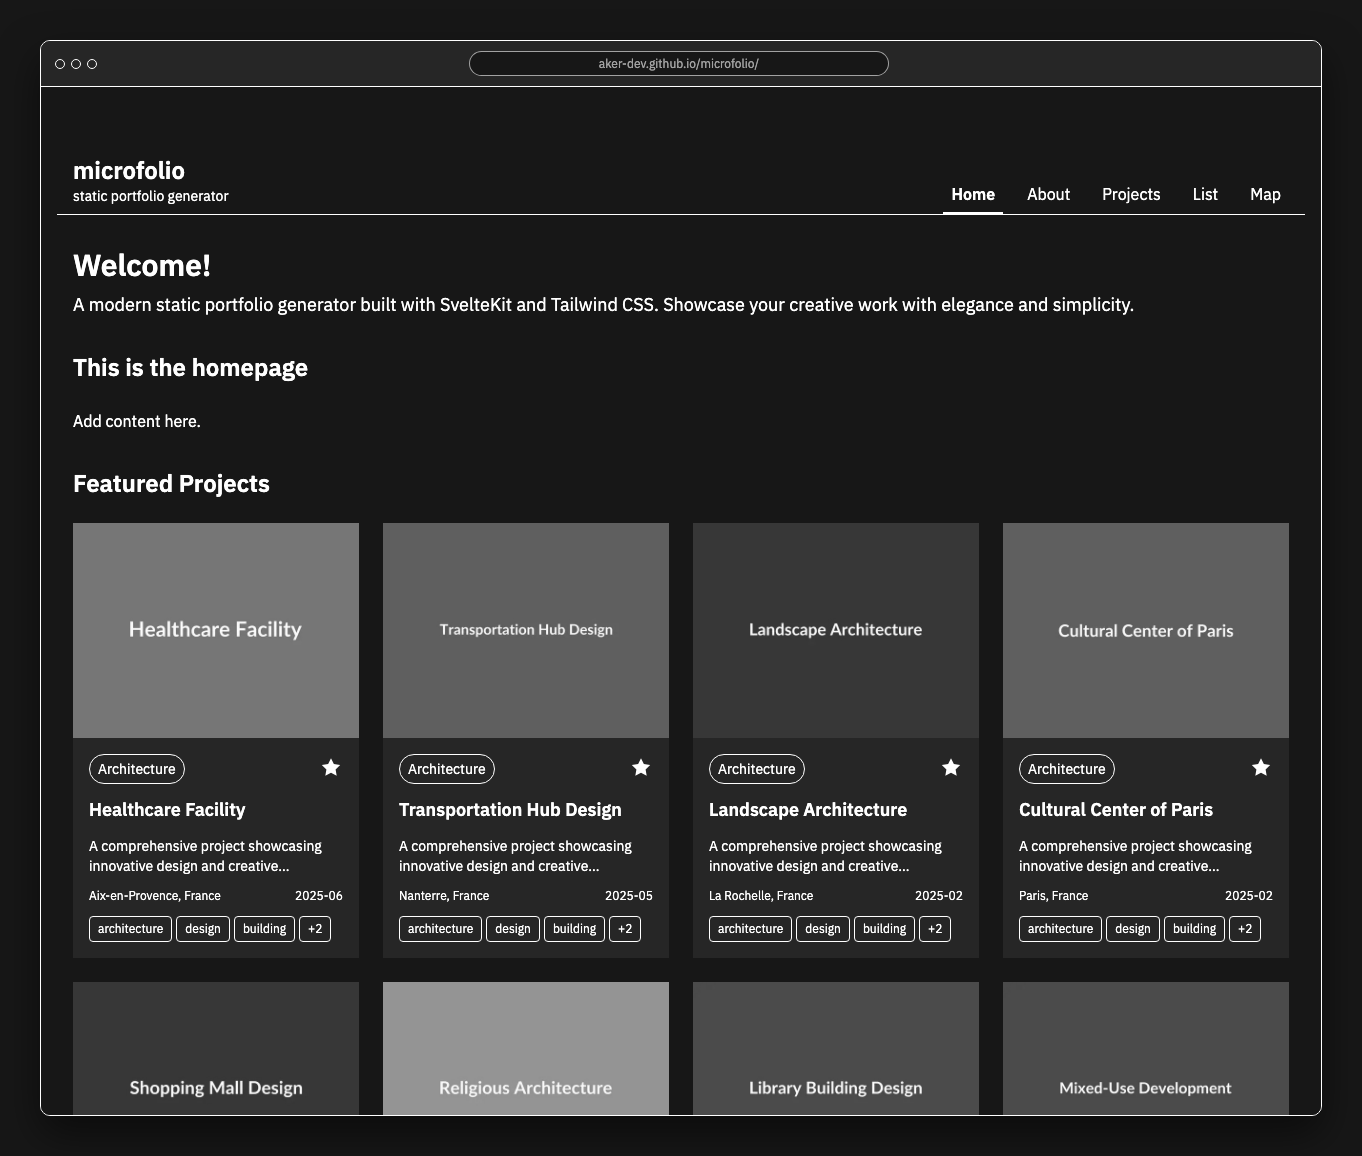
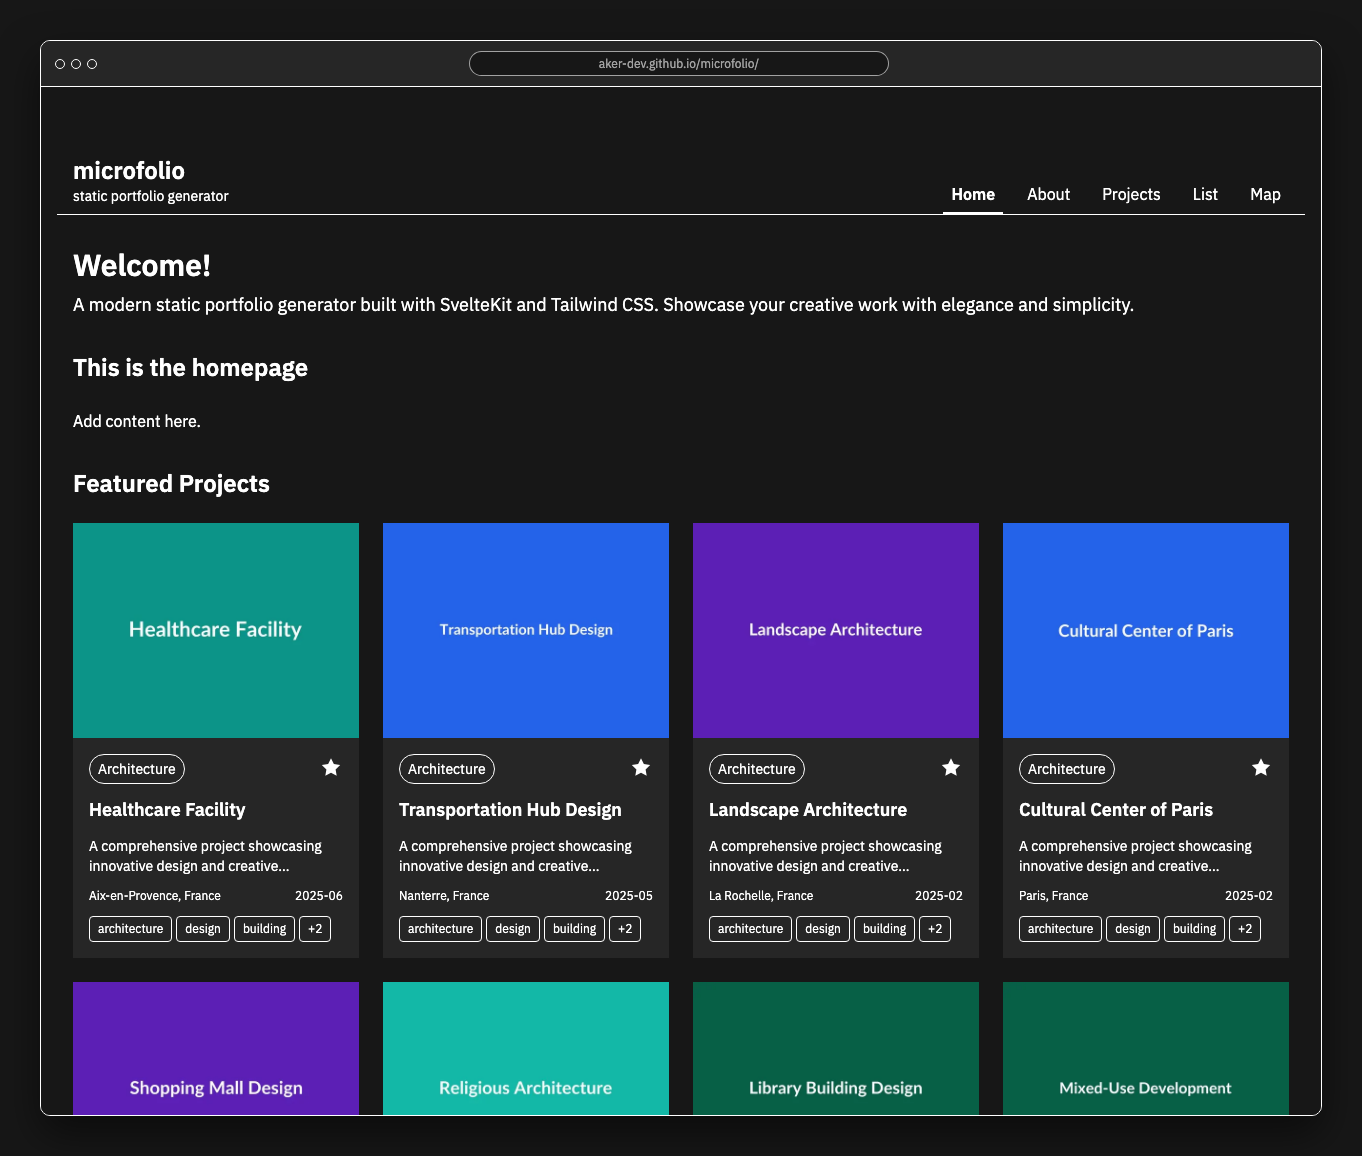
docs: record the MapLibre migration and retake the screenshots
CLAUDE.md gains the map stack and its three unguessable rules: the
coordinate swap, why maxZoom is 6 rather than a preference, and why
marker colours are fixed ink instead of theme tokens. Plus a trap that
belongs with the others — a green dev server says nothing about the
build, which is exactly how the missing worker chunk hid.

The project guides now state plainly, in both languages, that the
basemap is French and what that costs, since nobody would deduce it
from a demo whose every project is in France.

Four screenshots were stale, not one. Removing the grayscale filter
changed the gallery as expected, but also the home page and the
projects grid: their demo thumbnails were colour images all along,
desaturated on the way to the screen. Measured — 0% coloured pixels
before, around 25% now.

Changed region(s): [[0.0308, 0.436, 0.9559, 0.654], [0.0308, 0.8408, 0.9559, 0.9654]]

diff --git a/CLAUDE.md b/CLAUDE.md
@@ -48,6 +48,8 @@ pnpm 11 no longer reads the `pnpm` field in package.json — its settings live i
 
 **Do not trust a long-running dev server.** One left running on 5173 served stale code twice in a single session, once nearly leading to the conclusion that a working feature was broken. Verify against a fresh server: `CI=true PLAYWRIGHT_PORT=5199 pnpm test:e2e`.
 
+**A green dev server says nothing about the build.** MapLibre builds its worker URL at runtime from a name it assembles, which Rollup cannot see through: the production build referenced a worker chunk it had never emitted, so the map came up blank with no tile request at all — while `pnpm dev` was perfect. `pnpm build` then serving `build/` is the only way that surfaces. It is fixed, but the shape of the trap outlives the fix.
+
 **An overlay that covers something interactive also captures its events.** The map's veil spanned the whole map, so selecting a project froze it — no panning, no zooming, no reaching another marker. It went unnoticed for as long as it did because looking at a screenshot cannot reveal it either: the fix is `pointer-events-none` on the layer and `pointer-events-auto` on what should still be clickable, and the check is `document.elementFromPoint()` on a spot that ought to reach through.
 
 ## Architecture
@@ -100,6 +102,14 @@ All custom components use `Ak` prefix (e.g., `AkHeader`, `AkFooter`, `AkProjectC
 `AkFilters` builds its `TableHandler` in the component body rather than in an `$effect`, because effects never run on the server — that is what puts the rows of `/list` and the cards of `/projects` in the prerendered HTML. Only restoring state from the query string still waits for the browser. Its controls carry `disabled` until `onMount`, so a click landing before hydration cannot be silently lost. Below `md` its whole panel collapses behind a button that counts the active filters.
 
 **Two components render a project, and the room decides which.** `AkProjectCard` leads with a 4:3 thumbnail and belongs in the grids of the homepage and `/projects`. `AkProjectSummary` is text-first and belongs where an image would crowd the text out: the map callout, and `/list` below `md`. The whole summary is one link, which is why its tags are plain text — an anchor cannot contain other links.
+
+**The map is MapLibre GL on Plan IGN**, in the grey style the Géoplateforme publishes — French public data, no API key, and already fully neutral, which is why nothing desaturates it any more. `$lib/config.js` holds the style URL, the zoom cap and the attribution, and each carries the reason it exists. Three things about it are not guessable:
+
+- **Coordinates swap.** Frontmatter is `[latitude, longitude]`, MapLibre wants `[longitude, latitude]`. `toLngLat()` in `map/+page.svelte` is the only place they meet — keep it that way
+- **`maxZoom: 6` is not a preference.** Plan IGN covers the world to zoom 6 and France alone past it; Rome returns 42 bytes at zoom 7. Raising the cap empties the map for any project outside France, and no demo content would ever show it
+- **Marker and control colours are fixed ink, never theme tokens.** The map stays light in dark mode, where `--color-primary` is white — a marker built on it would disappear into the tiles
+
+MapLibre 6 has **no default export**; `(await import('maplibre-gl')).default` is undefined, and every example online still shows otherwise.
 
 **`/list` renders its rows twice.** A list of `AkProjectSummary` below `md`, the seven-column table from `md` up — the table needed 840px inside 311px on a phone. Both live in `src/routes/list/+page.svelte` and iterate the same `handler.rows`. Add a column to one and you have to add it to the other; nothing in the markup says so. The cards sit flush and are parted by `divide-y`, echoing the rule between table rows: leave a gap and the rule lands on a card edge, reading as an underline rather than a separation.
 

diff --git a/CHANGELOG.md b/CHANGELOG.md
@@ -33,6 +33,8 @@ and this project adheres to [Semantic Versioning](https://semver.org/spec/v2.0.0
 - Below `md`, the list cards are parted by a rule, the same one that runs between the table's rows above `md`
 - Image keywords in the lightbox read as plain text instead of borrowing the look of project tags, which are links and these are not
 - Gallery images keep their own colours. They were desaturated until hovered, which hid whatever the photograph was actually about
+- **The map runs on MapLibre GL and draws Plan IGN**, published by the Géoplateforme: French public data, no API key, and grey by design rather than by filter. Leaflet and the five marker images are gone. **Zoom is capped at 6, which is the last level Plan IGN covers worldwide** — a project anywhere on the planet still appears in its right place, but the map no longer reaches street scale. `siteConfig.map` holds the style, the cap and the attribution for anyone who wants another basemap
+- Map markers are buttons, so the keyboard reaches them and they announce the project they stand for
 
 ### Fixed
 

diff --git a/LISEZMOI.md b/LISEZMOI.md
@@ -14,7 +14,7 @@ Un générateur de portfolio statique moderne développé avec **SvelteKit 2** e
 - **🎨 Vues multiples** — Grille de projets, Liste et Carte
 - **📱 Design responsive** — Conçu avec une approche mobile-first
 - **🏷 Étiquetage intelligent** — Compteurs de filtres et liste de tags repliable
-- **🗺 Carte interactive** — Intégration Leaflet avec projets géolocalisés
+- **🗺 Carte interactive** — MapLibre GL et projets géolocalisés sur un fond Plan IGN
 - **🚀 Génération statique** — Performances optimales avec SvelteKit adapter-static
 - **🖼 Lightbox d'images** — Galerie améliorée avec flèches de navigation et affichage des métadonnées
 - **📊 Métadonnées EXIF/IPTC** — Extraction et affichage automatique des informations techniques d'images

diff --git a/doc/fr/03-ajout-projets.md b/doc/fr/03-ajout-projets.md
@@ -86,6 +86,14 @@ Présentez les résultats obtenus, l'accueil du projet, son impact.
 
 - `location` : Localisation du projet
 - `coordinates` : Coordonnées GPS [latitude, longitude]
+
+> **Le fond de carte est français.** La carte affiche le Plan IGN. Il couvre le
+> monde entier jusqu'au zoom 6 et la seule France au-delà, d'où un zoom plafonné
+> à 6 : un projet situé n'importe où sur la planète apparaît au bon endroit, mais
+> la carte ne descend jamais à l'échelle de la rue. Pour zoomer davantage sur des
+> projets hors de France, faites pointer `siteConfig.map.style` vers un autre
+> style MapLibre et relevez `maxZoom` — les deux sont dans `src/lib/config.js`.
+
 - `tags` : Mots-clés pour le filtrage
 - `authors` : Créateurs et collaborateurs
 - `featured` : Projet mis en avant (true/false)

diff --git a/doc/en/03-adding-projects.md b/doc/en/03-adding-projects.md
@@ -86,6 +86,14 @@ Present the results obtained, project reception, its impact.
 
 - `location`: Project location
 - `coordinates`: GPS coordinates [latitude, longitude]
+
+> **The basemap is French.** The map draws Plan IGN, published by France's
+> national mapping agency. It covers the whole world down to zoom 6 and France
+> alone beyond that, so the map is capped at zoom 6: a project anywhere on the
+> planet appears in its right place, but the map never reaches street scale. To
+> zoom further on projects outside France, point `siteConfig.map.style` at
+> another MapLibre style and raise `maxZoom` — both live in `src/lib/config.js`.
+
 - `tags`: Keywords for filtering
 - `authors`: Creators and collaborators
 - `featured`: Featured project (true/false)

diff --git a/README.md b/README.md
@@ -14,7 +14,7 @@ A modern static portfolio generator built with **SvelteKit 2** and **Tailwind CS
 - **🎨 Multiple Views** — Projects grid, List, and Map modes
 - **📱 Responsive Design** — Mobile-first approach
 - **🏷 Smart Tagging** — Filter counters and collapsible tag list
-- **🗺 Interactive Map** — Leaflet integration with geolocated projects
+- **🗺 Interactive Map** — MapLibre GL with geolocated projects on a Plan IGN basemap
 - **🚀 Static Generation** — Optimal performance with SvelteKit adapter-static
 - **🖼 Image Lightbox** — Enhanced gallery with navigation arrows and metadata display
 - **📊 EXIF/IPTC Metadata** — Automatic extraction and display of image technical information
